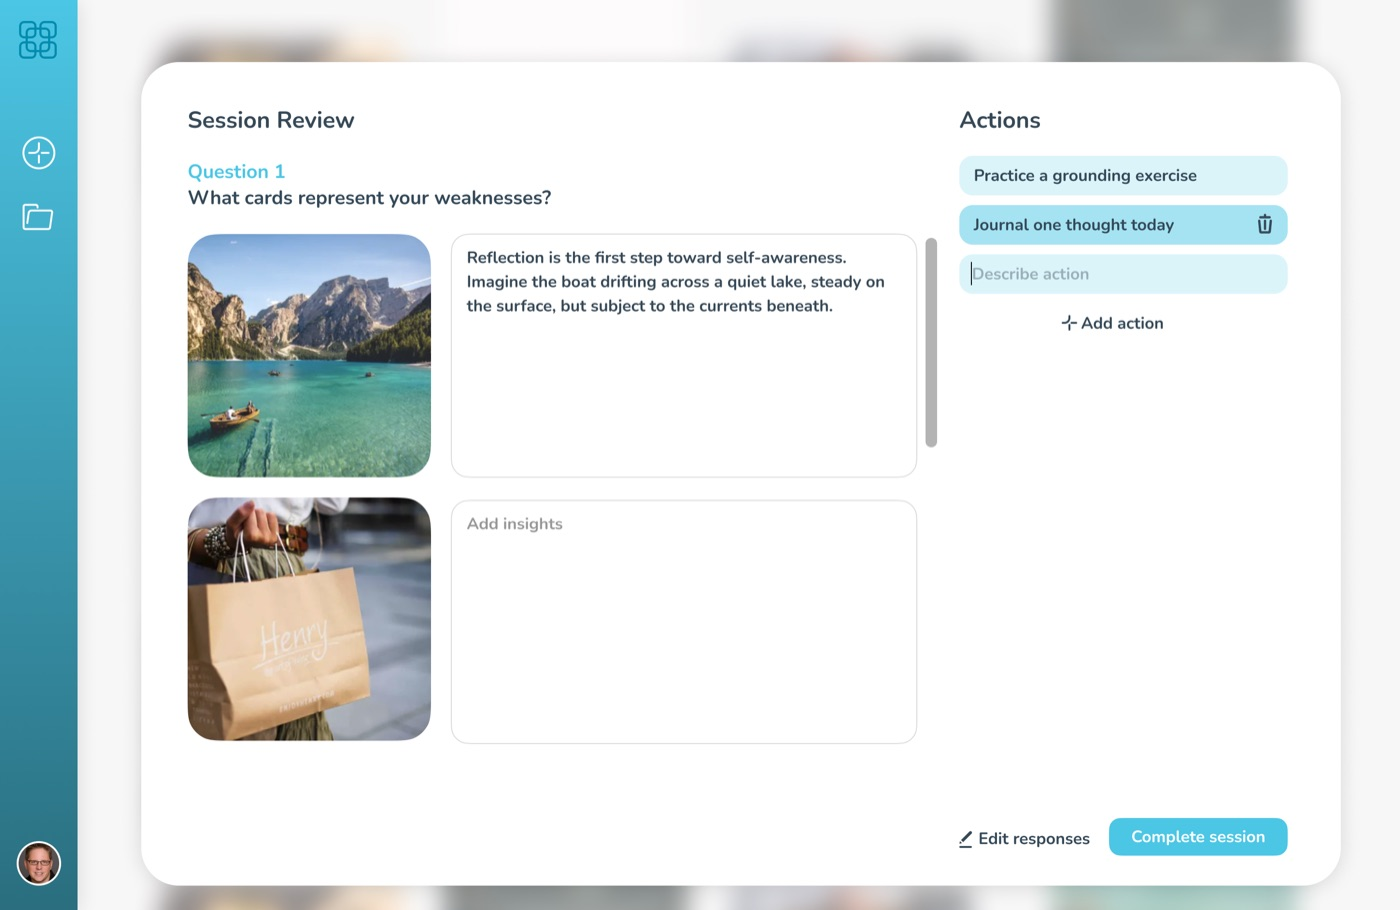
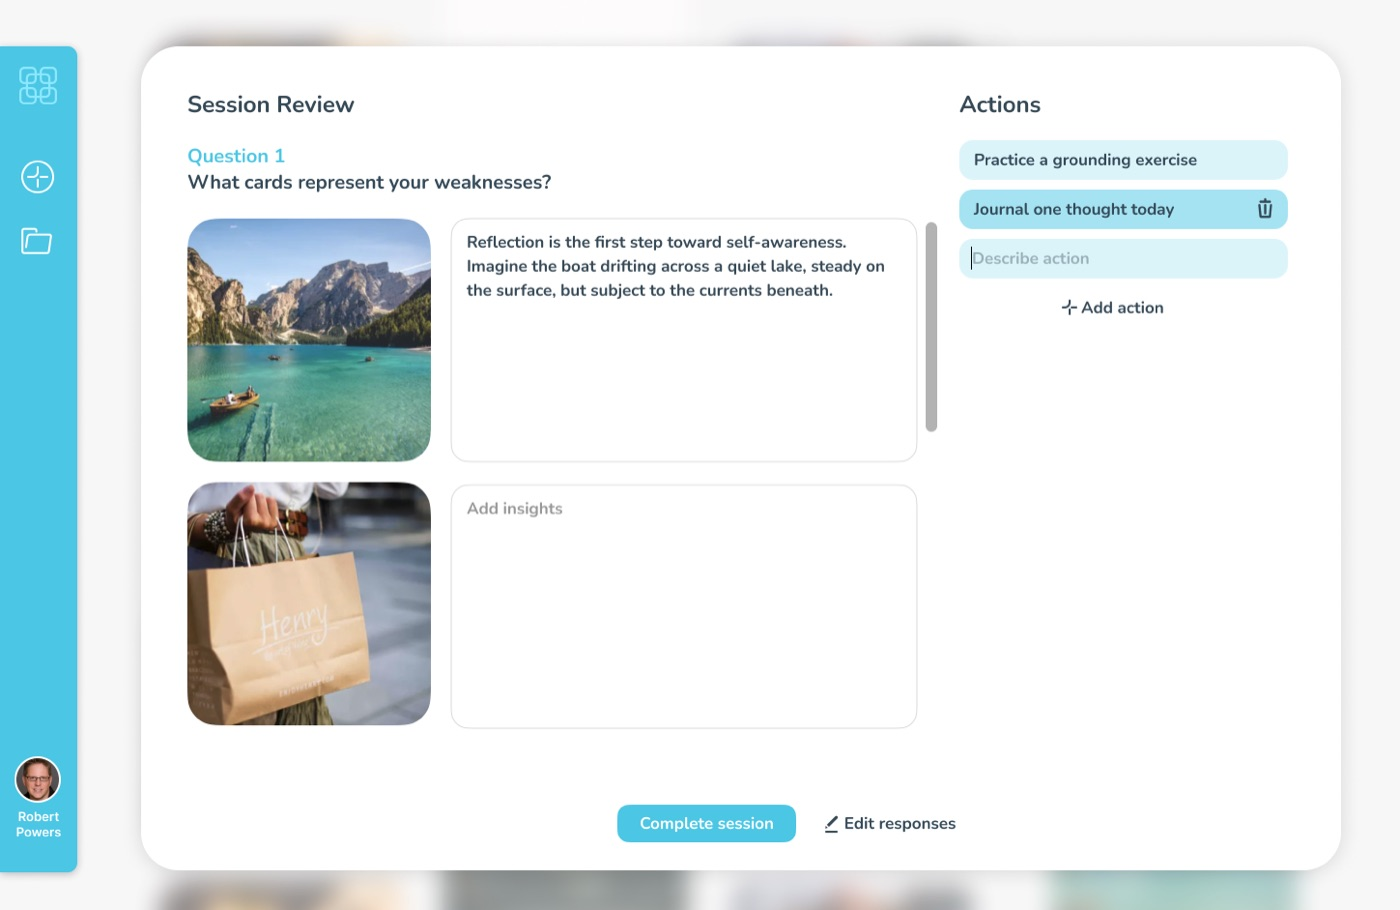
Image Insight case study: figures, captions, quote cleanup
- Added figures through the study: full UI, landing, sign-in, expanded
  session, session settings, session review, downloadable PDF summary,
  new-session menu, grid toolbar. Portrait figures capped via a new
  .figure-portrait rule. Removed the redundant grid figure.
- Captions rewritten to follow the surrounding narrative.
- All image assets re-compressed (sources were 0.8-7 MB).
- Blockquotes: dropped the wrapping quote marks site-wide; attributed
  "Skip the dev on that..." to a Senior Analyst (new blockquote cite
  rule on the validation study).
- Refreshed the Image Insight "Other work" card image.

diff --git a/case-studies/image-insight.html b/case-studies/image-insight.html
@@ -413,6 +413,10 @@
     margin: 28px 0 24px;
   }
 
+  .figure-portrait {
+    max-width: 440px;
+  }
+
   .figure img {
     display: block;
     width: 100%;
@@ -1084,6 +1088,11 @@
       <span class="eyebrow" id="summary-heading">Summary</span>
       <p class="about-statement display">Image Insight&rsquo;s co-founder approached me with a working prototype for digital coaching cards. The concept was there, but the visual design felt clunky and the user experience needed simplifying.</p>
       <p class="about-statement display">I refined the interface and key interactions, creating an elegant, low-friction experience where imagery and conversation take centre stage. I subsequently helped refine the product in response to beta feedback.</p>
+
+      <figure class="figure">
+        <img src="media/image-insight-session-expanded.jpg" alt="The session opened to full screen: a large 'What cards represent your weaknesses?' heading above three chosen images, with 'Review session' and 'Add question' below.">
+        <figcaption>The redesign in one view: the question and the chosen images hold the centre, and the rest of the interface steps back.</figcaption>
+      </figure>
     </section>
 
     <hr class="rule">
@@ -1093,6 +1102,11 @@
       <h2>Bringing coaching cards into a digital session</h2>
       <p>Physical image cards give people a starting point for conversations that can be difficult to begin with words alone. Taking that approach online makes it possible to explore images together during a video call, then capture the reflections and actions in one place.</p>
       <p>The tool was intended for coaches and therapists, including those working in schools with children from primary age through to teenagers. The design needed to support the conversation without becoming another task to manage.</p>
+
+      <figure class="figure">
+        <img src="media/image-insight-ui.jpg" alt="Image Insight's main screen: a scrolling grid of photographs with a floating toolbar, alongside a 'My session' panel holding the coach's question and the participant's chosen images.">
+        <figcaption>Images to explore together in a session, with the session&rsquo;s picks and notes gathered in one panel: the conversation supported without being another tool to manage.</figcaption>
+      </figure>
     </section>
 
     <hr class="rule">
@@ -1104,6 +1118,11 @@
       <p>I retained the original UI concept, introducing whitespace, calming colours and a clearer visual hierarchy. This was informed by my prior work in education and healthcare, where a &lsquo;therapeutic environment&rsquo; <a href="https://journals.sagepub.com/doi/10.1177/19375867231219031" target="_blank" rel="noopener noreferrer">has been shown to improve wellbeing</a>.</p>
       <p>I also identified bottlenecks and points of confusion, making actions clearer across the app. Settings and login pages continued the same calm visual approach.</p>
       <p>I designed the logo around the app&rsquo;s signature image grid, reflecting connection and personal growth.</p>
+
+      <figure class="figure">
+        <img src="media/image-insight-landing.jpg" alt="Image Insight's dashboard: cards for a new session and past sessions, a count of completed and active sessions, and panels for referrals, tutorials and support.">
+        <figcaption>The dashboard applies the same calm treatment across the app: one clear primary action, a light summary of activity, and help within reach.</figcaption>
+      </figure>
 
       <figure class="figure">
         <img src="media/image-insight-login.jpg" alt="Image Insight's sign-in page: a soft card on a pale teal background patterned with the app's rounded image-grid motif, with email and password fields and Google or Azure options.">
@@ -1118,17 +1137,12 @@
       <h2>Keeping imagery and conversation at the centre</h2>
       <p>The coach asks an open-ended question and the participant selects images from a grid. These become talking points, with reflections translated into actions. A downloadable PDF records the session, with key actions foregrounded.</p>
 
-      <figure class="figure">
-        <img src="media/image-insight-grid.jpg" alt="Image Insight's selection screen: a large grid of evocative photographs on the left, with a My session panel on the right showing the coach's question and the participant's numbered picks.">
-        <figcaption>The participant chooses images from the grid in response to the coach&rsquo;s question; selections collect in the session panel.</figcaption>
-      </figure>
-
       <p>Adult, teen and child modes change the selection of images shown. AI can describe images to help narrow the selection.</p>
       <blockquote>My focus was on making the surrounding interface simple enough for the coach and participant to stay with the conversation.</blockquote>
 
       <figure class="figure">
-        <img src="media/image-insight-session-review.jpg" alt="Image Insight's session review screen: each chosen image paired with the participant's reflection, and an Actions panel listing next steps to carry forward.">
-        <figcaption>The session review pairs each image with its reflection and foregrounds the actions to take forward, ready to export as a PDF.</figcaption>
+        <img src="media/image-insight-session-sidebar.jpg" alt="Two panels side by side: a 'My session' panel with the coach's question and the participant's chosen images, and a 'Session settings' panel with a session name, a Junior/Teen/Adult profile, and optional client name and notes.">
+        <figcaption>Session settings panel: easy to flip into session settings, which otherwise stay out of the way.</figcaption>
       </figure>
     </section>
 
@@ -1140,12 +1154,22 @@
       <div class="subsection" id="impl-validating">
         <h3>Validating the approach</h3>
         <p>The app was trialled in a beta with a number of schools. Feedback on the design approach was overwhelmingly positive.</p>
-        <blockquote>&ldquo;It gave a focus to answering the question, without distracting from the question.&rdquo;
+        <blockquote>It gave a focus to answering the question, without distracting from the question.
           <cite>Helen, Client &middot; <a href="https://imageinsight.app/" target="_blank" rel="noopener noreferrer">Source</a></cite>
         </blockquote>
-        <blockquote>&ldquo;I love the simplicity.&rdquo;
+        <blockquote>I love the simplicity.
           <cite>Ed, Head Teacher / Coach &middot; <a href="https://imageinsight.app/" target="_blank" rel="noopener noreferrer">Source</a></cite>
         </blockquote>
+
+        <figure class="figure">
+          <img src="media/image-insight-session-review.jpg" alt="Image Insight's session review screen: each chosen image paired with the participant's reflection, and an Actions panel listing next steps to carry forward.">
+          <figcaption>The session review pairs each image with its reflection and foregrounds the actions to take forward, ready to export as a PDF.</figcaption>
+        </figure>
+
+        <figure class="figure figure-portrait">
+          <img src="media/image-insight-pdf-report.jpg" alt="A one-page PDF session summary: an Image Insight header, a narrative summary, a list of actions, and the session review questions with their images and reflections.">
+          <figcaption>The downloadable summary the coach shares afterwards: the narrative, the actions to take forward, and the images and reflections from the review.</figcaption>
+        </figure>
       </div>
 
       <div class="subsection" id="impl-refining">
@@ -1155,8 +1179,19 @@
         <h4>Starting a session</h4>
         <p>Coaches wanted to begin immediately rather than schedule something for later. Engineering proposed a separate instant-session button. I made the case for one clear entry point for a new session, avoiding competing actions for essentially the same task.</p>
 
+        <figure class="figure">
+          <img src="media/image-insight-new-session.jpg" alt="A menu opening from the sidebar's add button: 'New session — start a session using your default settings' above 'Schedule a session — schedule and customise a session'.">
+          <figcaption>One entry point for a new session: start straight away on default settings, or open the same flow to schedule and customise.</figcaption>
+        </figure>
+
         <h4>Controlling the image grid</h4>
-        <p>Coaches reported that a large grid could feel overwhelming for some participants, including some neurodivergent children and young people. We added a slider to control how many images were displayed. I placed it alongside the grid so coaches could see the effect immediately and adjust it during the conversation.</p>
+        <p>Coaches reported that a large grid could feel overwhelming for some participants, including some neurodivergent children and young people. We added a slider to control how many images were displayed. I floated it over the bottom of the grid so coaches could see the effect immediately and adjust it during the conversation.</p>
+
+        <figure class="figure">
+          <img src="media/image-insight-toolbar.jpg" alt="A toolbar floating over the bottom of the image grid: a Refresh button, a gallery selector reading 'Standard', and a slider set to 25 images.">
+          <figcaption>The grid toolbar floats over the images: refresh for a new batch, a gallery selector, and a slider for how many images show.</figcaption>
+        </figure>
+
         <p>A gallery selector let coaches choose different image collections, while a refresh button brought up a new batch. Together, these controls made it easier to adapt the session to the person taking part.</p>
       </div>
     </section>
@@ -1167,7 +1202,7 @@
       <span class="eyebrow" id="outcome-heading">Outcome</span>
       <h2>An interface that leaves room for conversation</h2>
       <p>The result was a calmer, clearer coaching tool, refined through use in schools. Feedback from coaches highlighted its simplicity, while co-founder Anna Malone directly credited the design work with making the product easier to use.</p>
-      <blockquote>&ldquo;Tom has been crucial in transforming Image Insight from a clunky MVP to an intuitive, easy-to-use product that I&rsquo;m really proud of.&rdquo;
+      <blockquote>Tom has been crucial in transforming Image Insight from a clunky MVP to an intuitive, easy-to-use product that I&rsquo;m really proud of.
         <cite>Anna Malone, Co-founder, Image Insight</cite>
       </blockquote>
       <p>The design gives coaches control over the session while keeping imagery and conversation at the centre of the experience.</p>

diff --git a/case-studies/validation-and-correction.html b/case-studies/validation-and-correction.html
@@ -353,6 +353,16 @@
     margin-bottom: 0;
   }
 
+  .case-body blockquote cite {
+    display: block;
+    margin-top: 12px;
+    font-style: normal;
+    font-family: "IBM Plex Mono", "SFMono-Regular", Menlo, Consolas, monospace;
+    font-size: 13px;
+    line-height: 1.5;
+    color: rgba(255, 255, 255, 0.55);
+  }
+
   /* -- inline UI video -- */
 
   .ui-video {
@@ -1094,7 +1104,9 @@
         </figure>
 
         <p>User feedback also helped us decide what to leave out. We explored allowing users to pivot the report to first view results by input file rather than by validation rule. Their response was helpfully direct:</p>
-        <blockquote>&ldquo;Skip the dev on that. Just give me the validations.&rdquo;</blockquote>
+        <blockquote>Skip the dev on that. Just give me the validations.
+          <cite>User feedback from Senior Analyst</cite>
+        </blockquote>
         <p>We dropped the alternative view and focused development on the core reporting experience.</p>
       </div>
 
